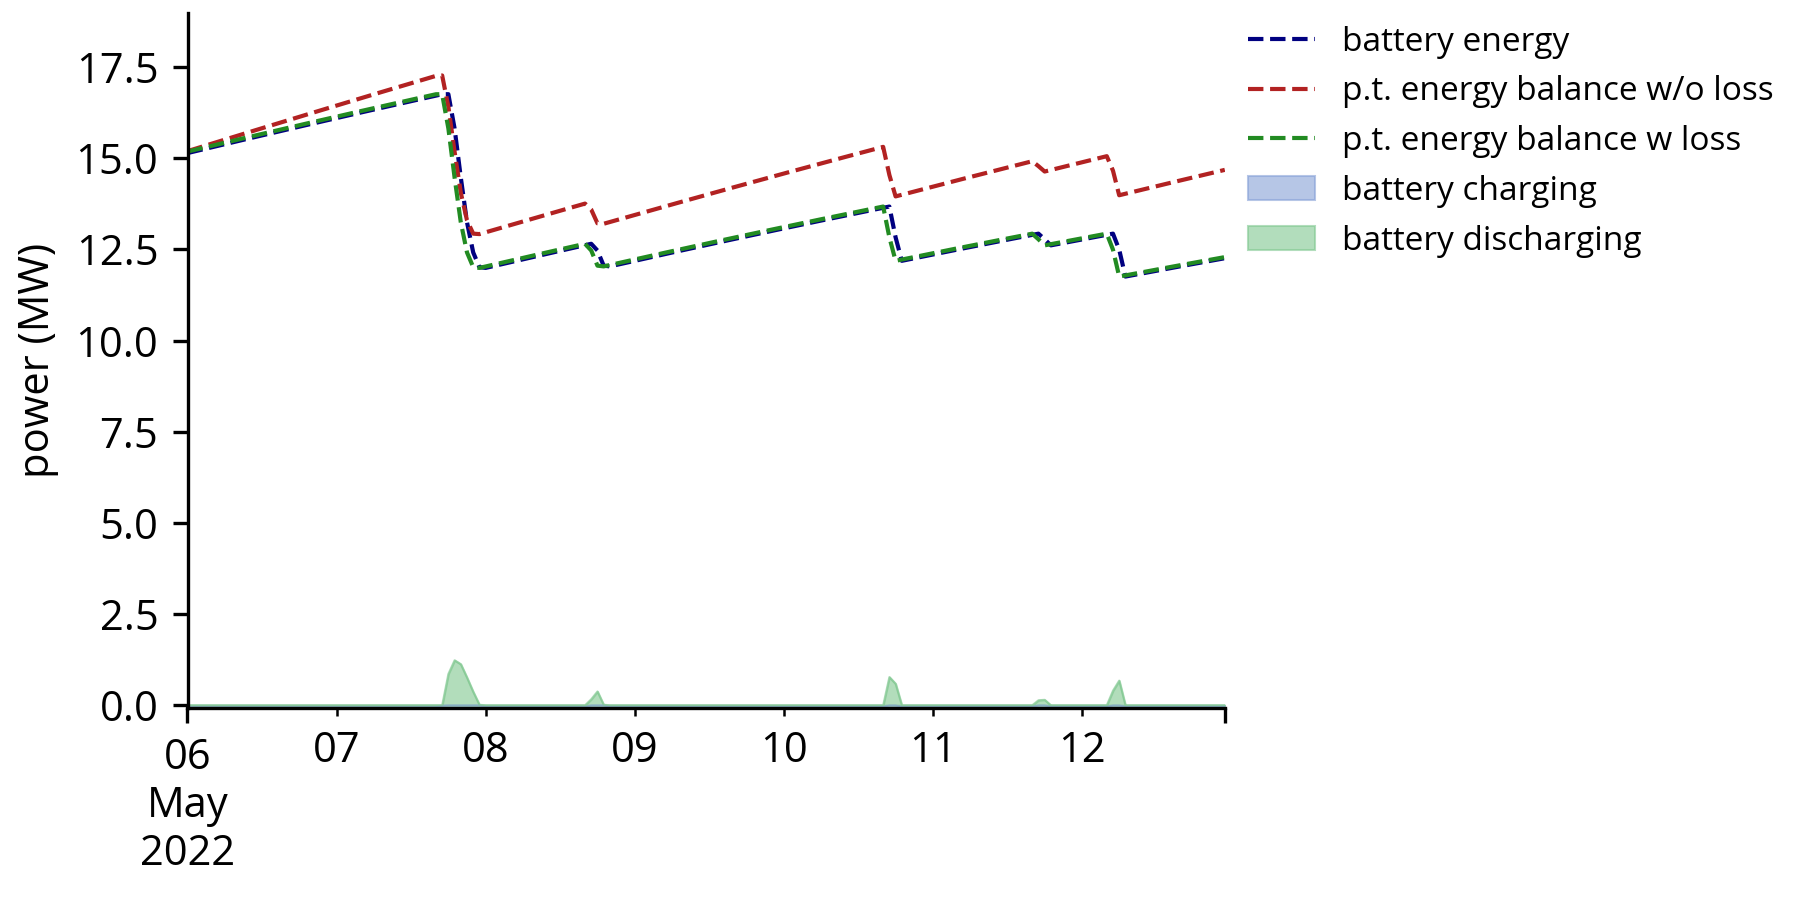
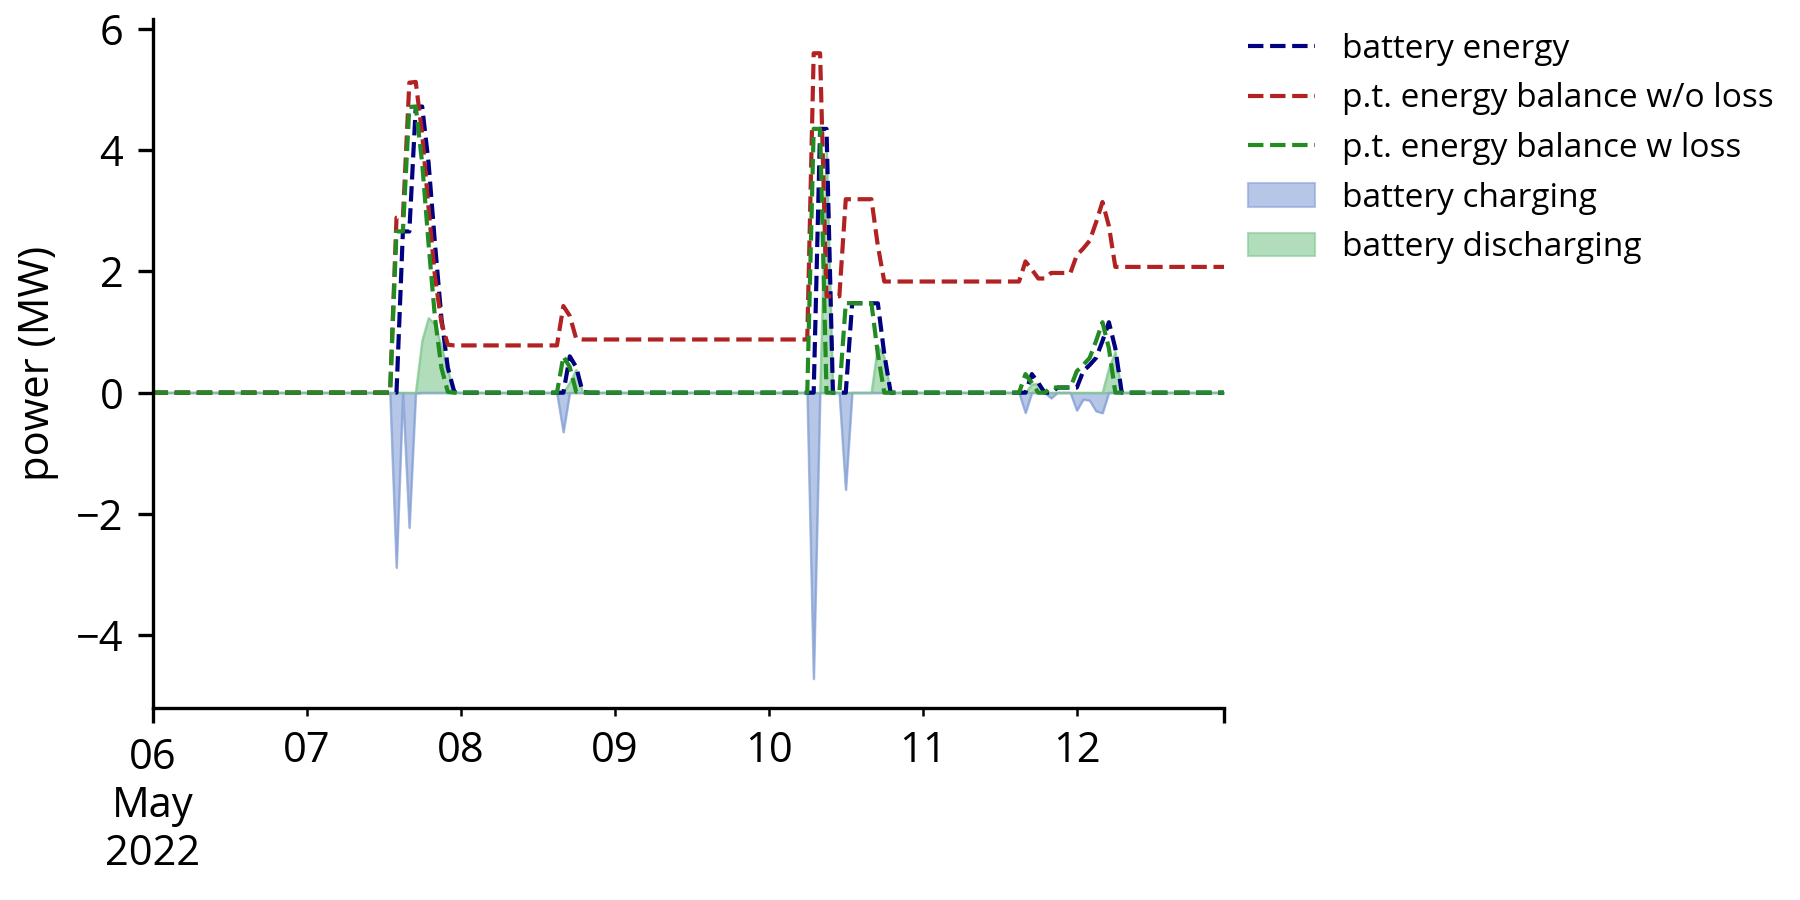
possibly fixed the issue by adding the option to force to use simplex and linear relations

diff --git a/thesis scripts/solving_battery/evhub_single_run.py b/thesis scripts/solving_battery/evhub_single_run.py
@@ -1,4 +1,5 @@
 #%%
+from os import execlp
 from pathlib import Path
 import LESO
 from profile_plotting import profile_plot_battery
@@ -16,8 +17,8 @@ for component in system.components:
     if "2h" in component.name:
         battery = component
 
-battery.variable_cost = 1e-6
-battery.variable_income = -1e-6
+battery.variable_cost = 1e-8
+battery.variable_income = -1e-8
 
 # %%
 system.optimize(
@@ -36,17 +37,42 @@ for component in system.components:
         battery = component
 
 time = system.time
-df = battery.state
+df = battery.state.copy(deep=True)
 
 if hasattr(battery, 'power_control'):
     for key, modelvar in battery.keylist:
         df[key] = [modelvar[t].value for t in time]
 
-profile_plot_battery(
+df2 = profile_plot_battery(
     charging = battery.state['power [-]'],
     discharging = battery.state['power [+]'],
     energy= battery.state['energy'],
-    start=3000,
+    start=700,
     duration=7,
     fig_filename="evhub_00mw_changed_cost_"
 )
+# %%
+
+charging = battery.state['power [-]']
+discharging = battery.state['power [+]']
+energy =battery.state['energy']
+
+print("leaked discharge :", discharging[charging!=0].sum())
+print("leaked charge :", charging[discharging!=0].sum())
+print("peak power :", max([-charging.min(), discharging.max()]))
+print("peak power [%]:", max([-charging.min(), discharging.max()])/battery.installed*battery.EP_ratio)
+print("peak energy:", energy.max())
+print("peak energy [%]:", energy.max()/battery.installed)
+
+# %%
+
+for component in system.components:
+    if "battery" in component.name:
+        print(component.name, f": {component.capex}")
+
+#%%
+for component in system.components:
+    try:
+        print(component.name, f": {component.installed}")
+    except AttributeError:
+        pass

diff --git a/thesis scripts/solving_battery/profile_plotting.py b/thesis scripts/solving_battery/profile_plotting.py
@@ -188,15 +188,14 @@ def profile_plot_battery(charging: pd.Series, discharging: pd.Series, energy: pd
     fig, ax = default_matplotlib_style(fig, ax)
     fig.set_size_inches(6, 3)
     
-    energy = pd.DataFrame(
-        data=energy.iloc[start : start + duration * 24].values, 
-        index=energy.iloc[start : start + duration * 24].index,
-        columns=['battery energy'])
-    charging = charging.iloc[start : start + duration * 24]
-    discharging = discharging.iloc[start : start + duration * 24]
 
     charging.name = "battery charging"
     discharging.name = "battery discharging"
+
+    energy = pd.DataFrame(
+        data=energy.values, 
+        index=energy.index,
+        columns=['battery energy'])
     
     energy['p.t. energy balance w/o loss'] = (
         -charging.cumsum()
@@ -208,6 +207,16 @@ def profile_plot_battery(charging: pd.Series, discharging: pd.Series, energy: pd
         - (discharging * (1.0846522890932808-1)).cumsum()
         - (energy["battery energy"] * (1-0.9995)).cumsum())
     )
+
+    df = energy.copy(deep=True)
+    df["battery discharging"] = discharging.values
+    df["battery charging"] = charging.values
+
+    energy = energy.iloc[start : start + duration * 24]
+    charging = charging.iloc[start : start + duration * 24]
+    discharging = discharging.iloc[start : start + duration * 24]
+
+
 
     charging.plot.area(
         ax=ax, color=LOAD_COLORS, alpha=OPACITY, linewidth=LINEWIDTH
@@ -239,3 +248,4 @@ def profile_plot_battery(charging: pd.Series, discharging: pd.Series, energy: pd
         IMAGES_FOLDER
         / f"{fig_filename}_bat_indepth_start_{start}_duration{duration}.png",
     )
+    return df

diff --git a/LESO/components.py b/LESO/components.py
@@ -392,17 +392,31 @@ class Lithium(Storage):
 
         core.battery_control_constraints(system.model, self)
 
+    # def get_variable_cost(self, pM):
+    #     time = pM.time
+    #     key = self.__str__()
+    #     zeros = np.zeros(len(time))
+
+    #     # get pyoVar if key exists, otherwise zeros matrix
+    #     P = getattr(pM, key + "_P", zeros)
+
+    #     # returns some quadratic formula that simulates battery wear
+    #     return sum((P[t]) * self.variable_cost for t in time)
+
     def get_variable_cost(self, pM):
+        
         time = pM.time
-        key = self.__str__()
+        ckey = self.__str__()
         zeros = np.zeros(len(time))
 
-        # get pyoVar if key exists, otherwise zeros matrix
-        P = getattr(pM, key + "_P", zeros)
+        charging = getattr(pM, ckey + "_Pneg", zeros)
+        discharging = getattr(pM, ckey + "_Ppos", zeros)
+        
+        # note: variable_income should be negative!
+        income = sum(charging[t] * self.variable_income for t in time)
+        cost = sum(discharging[t] * self.variable_cost for t in time)
 
-        # returns some quadratic formula that simulates battery wear
-        return sum((P[t]) ** 2 * self.variable_cost for t in time)
-
+        return cost + income
 
 class Hydrogen(Storage):
 

diff --git a/LESO/system.py b/LESO/system.py
@@ -249,9 +249,9 @@ class System:
         if noncovex:
             opt.options["NonConvex"] = 2
 
-        opt.options["IterationLimit"] = 2000
+        opt.options["IterationLimit"] = 200000
         # opt.options['BarHomogeneous'] = 1
-        # opt.options["Method"] = 3
+        opt.options["Method"] = 1
 
         self.model.results = opt.solve(self.model, tee=tee)
 
